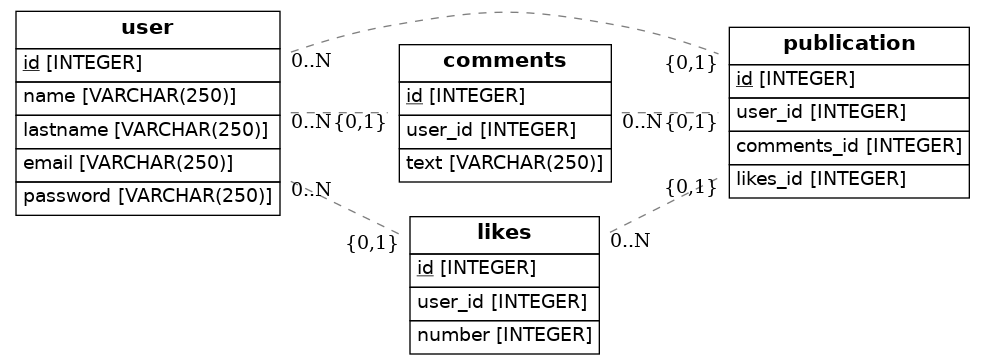
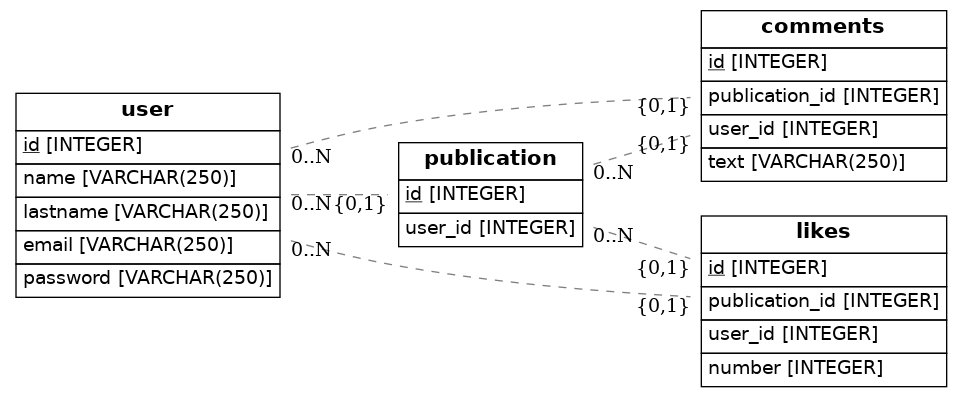
cambios en las tablas

diff --git a/src/models.py b/src/models.py
@@ -20,18 +20,18 @@ class Publication(Base):
     __tablename__ = 'publication'
     id = Column(Integer, primary_key=True)
     user_id = Column(Integer, ForeignKey('user.id'))
-    comments_id = Column(Integer, ForeignKey('comments.id'))
-    likes_id = Column(Integer, ForeignKey('likes.id'))
 
 class Comments(Base):
     __tablename__ = 'comments'
     id = Column(Integer, primary_key=True)
+    publication_id = Column(Integer, ForeignKey('publication.id'))
     user_id = Column(Integer, ForeignKey('user.id'))
     text = Column(String(250), nullable=False)
 
 class Likes(Base):
     __tablename__ = 'likes'
     id = Column(Integer, primary_key=True)
+    publication_id = Column(Integer, ForeignKey('publication.id'))
     user_id = Column(Integer, ForeignKey('user.id'))
     number = Column(Integer, nullable=False)
 
